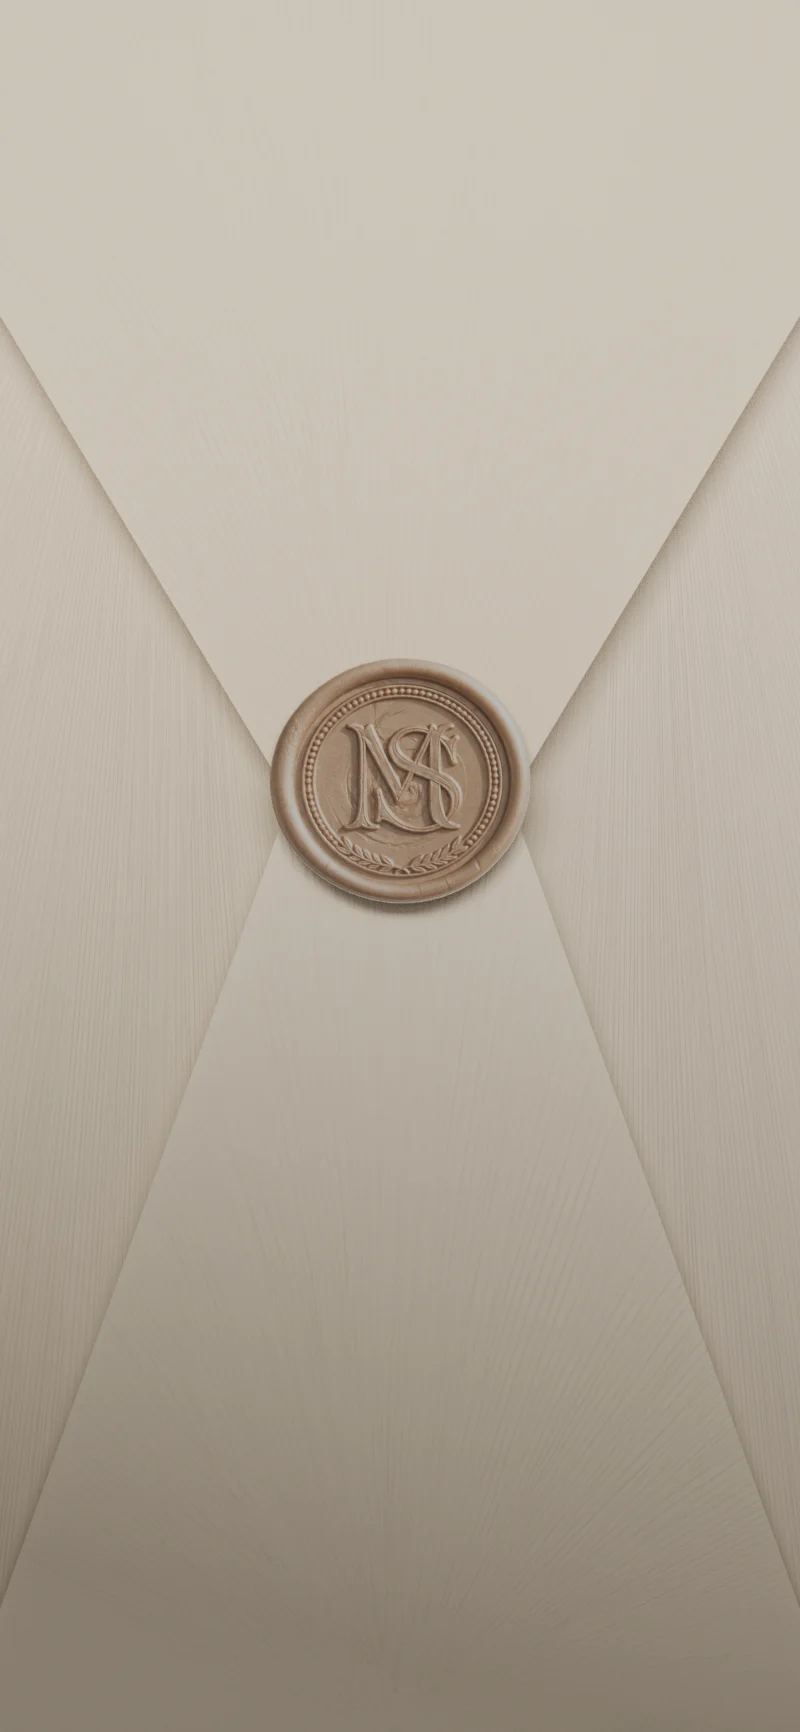
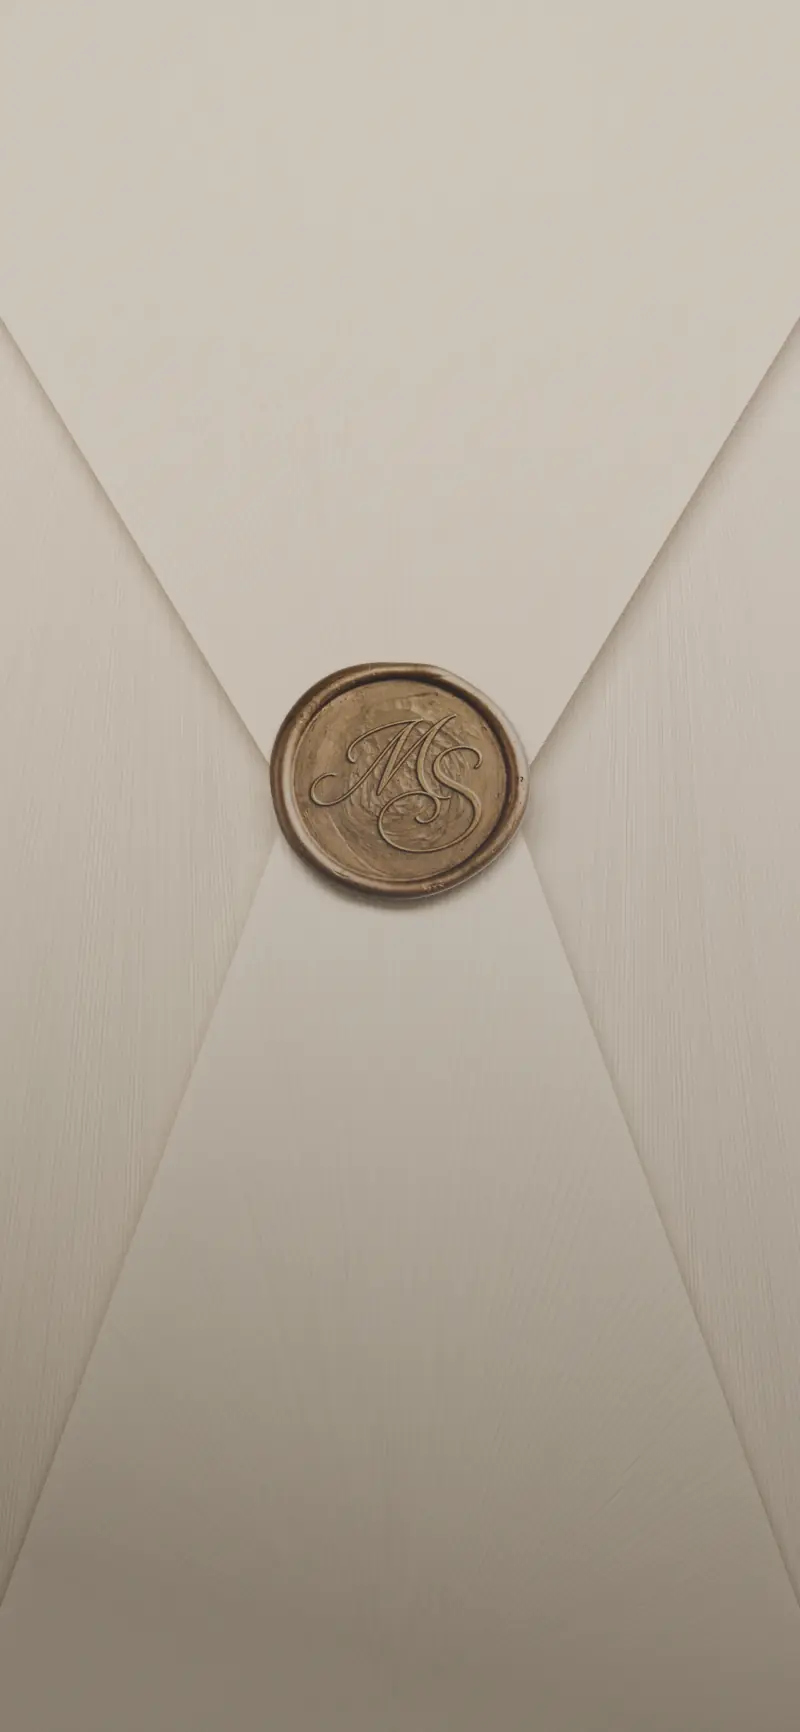
feat: Lin envelope opens, 148 rendered frames

Changed region(s): [[0.3125, 0.3741, 0.6875, 0.53]]

diff --git a/lib/envelopes.ts b/lib/envelopes.ts
@@ -118,31 +118,29 @@ export type EnvelopeSpec = SealGeometry & {
 /*
  * Cream linen with an MS wax seal, rendered in Blender.
  *
- * ONLY THE SEALED FRAME EXISTS SO FAR — hence `count: 1`. The envelope sits
- * correctly at rest and the opening does not animate: tapping the seal holds
- * this one frame for its duration and then hands over to the invitation.
+ * THE FULL OPENING IS RENDERED: sealed at 1, the flap and wax lifting away,
+ * and the paper clear of the camera by the last frame. The render is 158
+ * frames at 24fps; `scripts/envelope-frames.mjs` dropped 10 as identical to
+ * their neighbour (three at the head, seven at the tail once the paper had
+ * left frame), so 148 ship, renumbered contiguously.
  *
- * That is the honest state while the sequence is being rendered, and it is
- * deliberately not disguised. The count is what makes it visible: raise it as
- * frames land and the opening starts moving, with no other change anywhere.
- *
- * Geometry is MEASURED off frame 1, not guessed — the wax is a 248px square
- * centred at 49.4% across and 46.4% down an 800x1732 frame.
+ * Geometry is MEASURED off frame 1 by hue, not guessed — the wax is a 246px
+ * square centred at 49.9% across and 44.9% down an 800x1732 frame.
  */
 const LIN: EnvelopeSpec = {
   slug: 'lin',
   name: 'Cream linen, wax seal',
   frames: {
     dir: '/envelope/lin/frames',
-    count: 1,
+    count: 148,
     pad: 4,
-    fps: 30,
+    fps: 24,
     width: 800,
     height: 1732,
   },
-  sealY: '46.4%',
-  sealX: '49.4%',
-  sealSize: '31%',
+  sealY: '44.9%',
+  sealX: '49.9%',
+  sealSize: '30.8%',
 };
 
 /*

diff --git a/docs/design-roadmap.md b/docs/design-roadmap.md
@@ -27,8 +27,7 @@ ornament.
 | 9  | `aquarelle`| Airy watercolour wildflowers          |       |       |          |            |          |      |
 | 10 | `olivier`  | Olive grove, terracotta, late sun     |       |       |          |            |          |      |
 
-Lin's envelope ships its sealed frame only (`count: 1` in `lib/envelopes.ts`);
-its opening render is outstanding.
+Lin's envelope opening is rendered and shipped (148 frames).
 
 ## The pipeline
 
